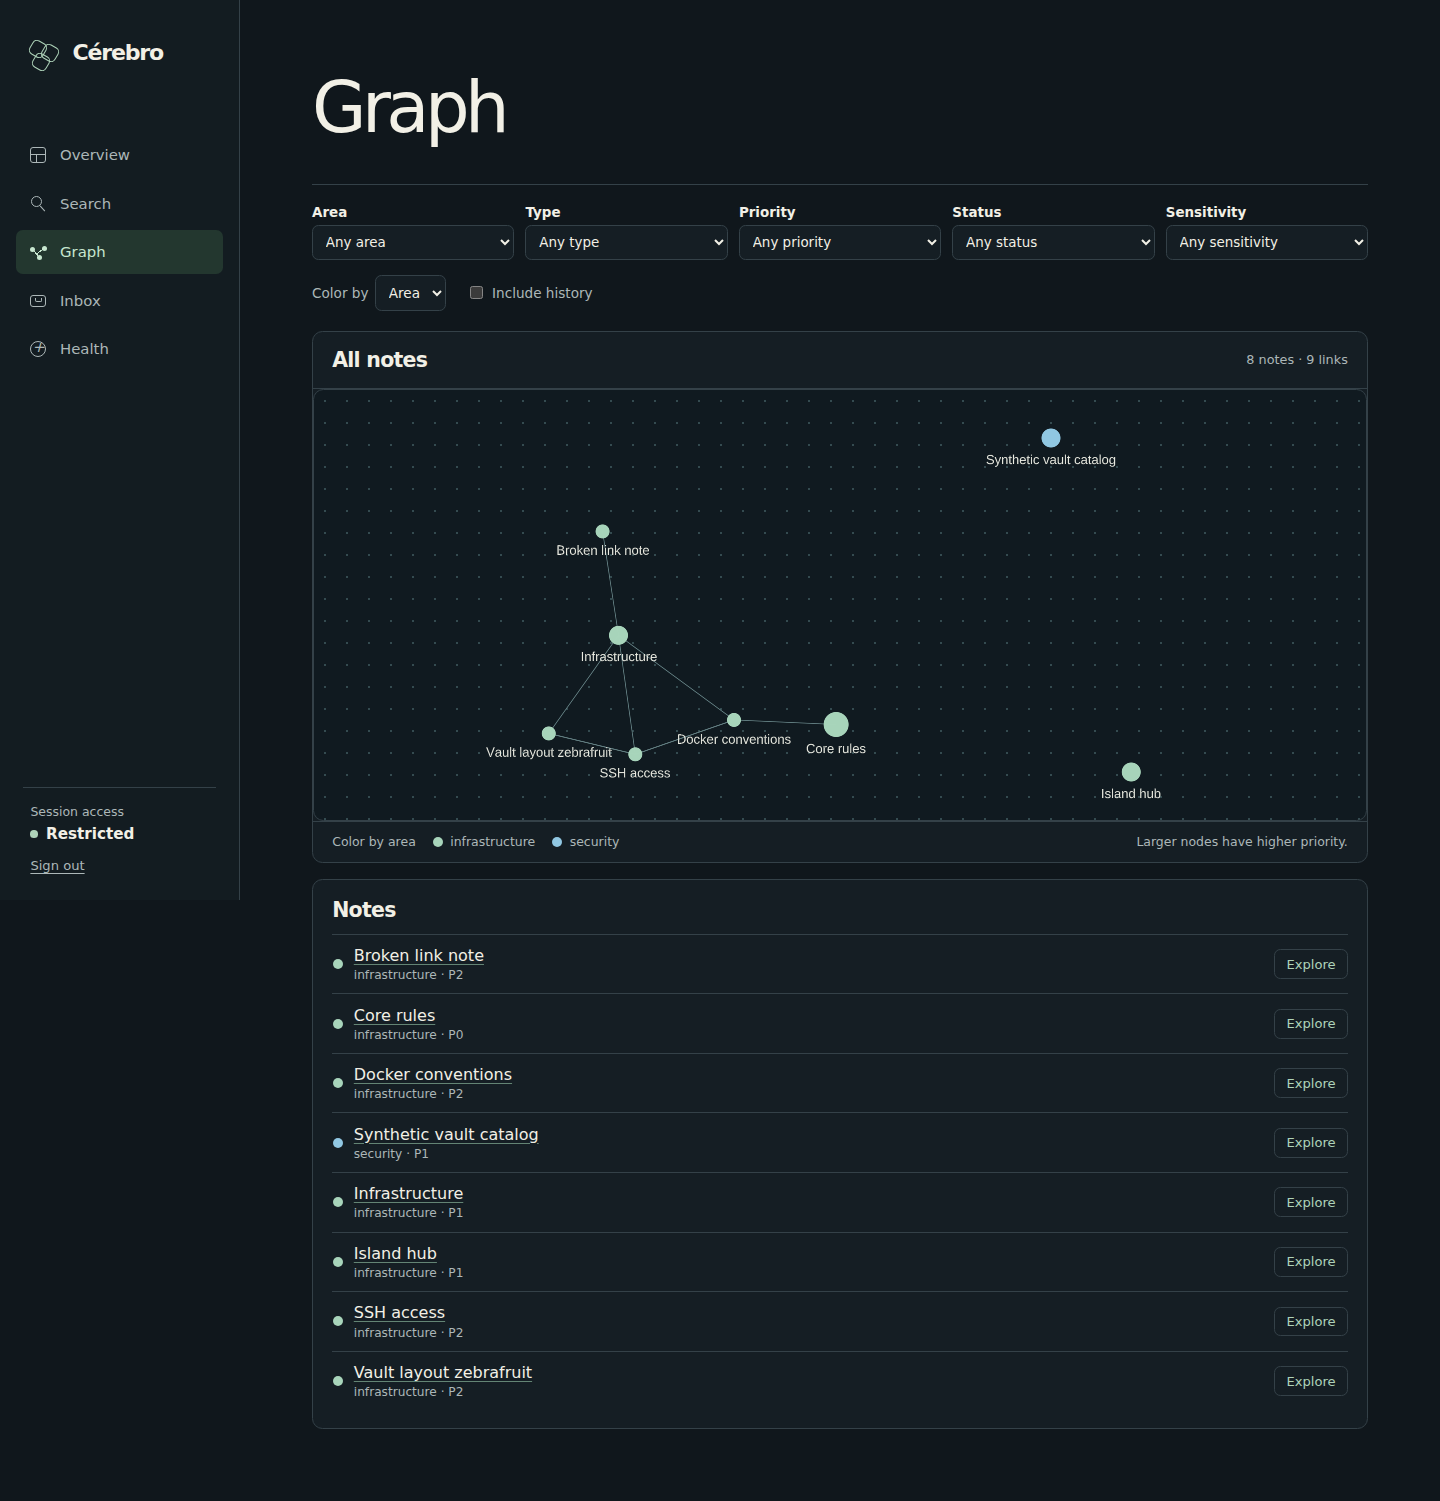
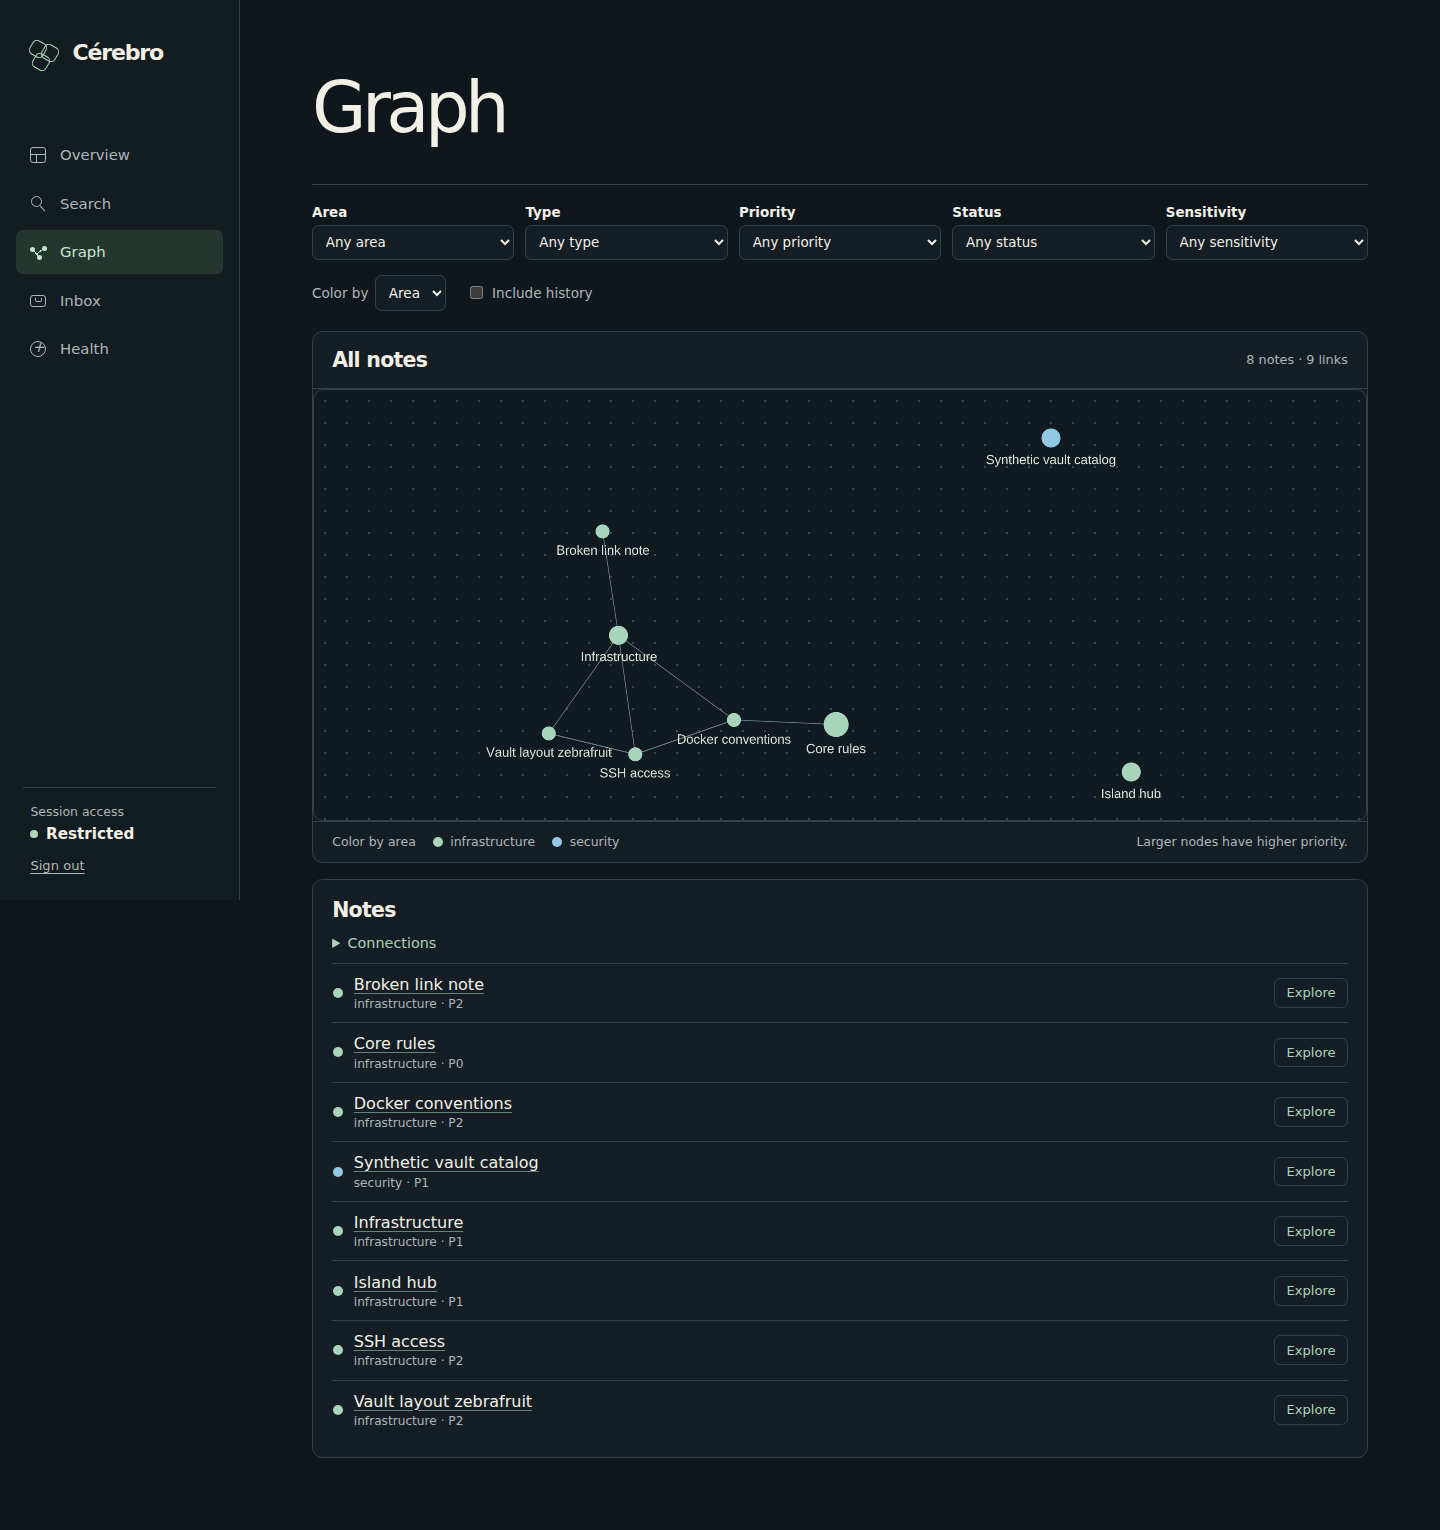
fix: expose graph relationships to keyboard and fallback readers

diff --git a/web/tests/components/graph.spec.ts b/web/tests/components/graph.spec.ts
@@ -1,12 +1,16 @@
-import { expect, test } from "@playwright/test";
+import { expect, test, type Page } from "@playwright/test";
 
 const guide = {id:"guide", title:"Field guide", area:"research", type:"guide", priority:"P1", status:"verified", sensitivity:"internal", summary:"Guide."};
 const hub = {...guide, id:"catalog", title:"Catalog", type:"hub", priority:"P0"};
 const archived = {...guide, id:"archive", title:"Archive", status:"archived", area:"archive", sensitivity:"restricted"};
 const edge = {source:"guide", target:"catalog", kind:"related", section:null};
 
-test("global filters, keyboard exploration, hops and return preserve graph context", async ({page}) => {
+async function session(page: Page) {
   await page.route("**/api/session", route => route.fulfill({json:{ceiling:"restricted",csrf_token:"fixture",absolute_remaining_seconds:28800}}));
+}
+
+test("global filters, keyboard exploration, hops and return preserve graph context", async ({page}) => {
+  await session(page);
   await page.route("**/api/graph**", route => {
     const params = new URL(route.request().url()).searchParams;
     const candidates = params.get("history") === "true" ? [guide, hub, archived] : [guide, hub];
@@ -25,6 +29,16 @@ test("global filters, keyboard exploration, hops and return preserve graph conte
   await expect(page.getByText(/2 notes · 1 links?/)).toBeVisible();
   await page.getByLabel("Include history").check();
   await expect(explore("Archive")).toBeVisible();
+  for (const [key, value, excluded] of [
+    ["Area", "research", "Archive"], ["Type", "guide", "Catalog"], ["Priority", "P1", "Catalog"],
+    ["Status", "verified", "Archive"], ["Sensitivity", "internal", "Archive"],
+  ]) {
+    await select(key).selectOption(value);
+    await expect(explore("Field guide")).toBeVisible();
+    await expect(explore(excluded)).toHaveCount(0);
+    await select(key).selectOption("");
+    await expect(explore(excluded)).toBeVisible();
+  }
   await select("Color by").selectOption("type");
   for (const [key,value] of Object.entries({Area:"research", Type:"guide", Priority:"P1", Status:"verified", Sensitivity:"internal"})) {
     await select(key).selectOption(value);
@@ -35,7 +49,9 @@ test("global filters, keyboard exploration, hops and return preserve graph conte
   await explore("Field guide").focus();
   const local = page.waitForResponse(response => new URL(response.url()).pathname === "/api/notes/guide/neighbors");
   await page.keyboard.press("Enter");
-  await local;
+  expect(Object.fromEntries(new URL((await local).url()).searchParams)).toEqual({
+    hops:"1", history:"true", area:"research", type:"guide", priority:"P1", status:"verified", sensitivity:"internal",
+  });
   await expect(page.getByRole("radio",{name:"1 hop",exact:true})).toBeChecked();
   for (const key of ["Area", "Type", "Priority", "Status", "Sensitivity"]) await select(key).selectOption("");
   await expect(explore("Catalog")).toBeVisible();
@@ -51,4 +67,49 @@ test("global filters, keyboard exploration, hops and return preserve graph conte
   }
   await expect(page.getByLabel("Include history")).toBeChecked();
   await expect(explore("Catalog")).toHaveCount(0);
+});
+
+test("the HTML neighborhood follows two-hop connections through matching nodes only", async ({page}) => {
+  await session(page);
+  await page.addInitScript(() => {
+    const get = HTMLCanvasElement.prototype.getContext;
+    Object.defineProperty(HTMLCanvasElement.prototype, "getContext", {
+      value(this: HTMLCanvasElement, kind: string, ...args: unknown[]) {
+        return kind.includes("webgl") ? null : Reflect.apply(get, this, [kind, ...args]);
+      },
+    });
+  });
+  const entry = {...guide, id:"entry", title:"Entry"};
+  const bridge = {...guide, id:"bridge", title:"Bridge", type:"hub"};
+  const destination = {...guide, id:"destination", title:"Destination"};
+  const first = {...edge, source:"entry", target:"bridge", kind:"related"};
+  const second = {...edge, source:"bridge", target:"destination", kind:"wikilink"};
+  const all = {nodes:[entry, bridge, destination], edges:[first, second]};
+  await page.route("**/api/graph**", route => route.fulfill({json:{...all, center:null}}));
+  await page.route("**/api/notes/entry/neighbors**", route => {
+    const params = new URL(route.request().url()).searchParams;
+    const data = params.get("type") === "guide" ? {nodes:[entry], edges:[]}
+      : params.get("hops") === "2" ? all : {nodes:[entry,bridge], edges:[first]};
+    return route.fulfill({json:{...data,center:"entry"}});
+  });
+  await page.goto("/graph");
+  const explore = (title: string) => page.getByRole("button", {name:"Explore " + title, exact:true});
+  await explore("Entry").click();
+  await page.getByRole("radio",{name:"2 hops",exact:true}).check();
+  await expect(explore("Destination")).toBeVisible();
+  await expect(page.locator('[data-renderer="fallback"]')).toBeVisible();
+  await page.getByText("Connections", {exact:true}).click();
+  const connections = page.getByRole("region",{name:"Graph connections"}).getByRole("listitem");
+  await expect(connections).toHaveCount(2);
+  await expect(connections.filter({hasText:"Entry → Bridge · related"})).toBeVisible();
+  await expect(connections.filter({hasText:"Bridge → Destination · wikilink"})).toBeVisible();
+  await expect(connections.filter({hasText:"Entry → Destination"})).toHaveCount(0);
+
+  const response = page.waitForResponse(res => new URL(res.url()).pathname === "/api/notes/entry/neighbors");
+  await page.getByRole("combobox",{name:"Type",exact:true}).selectOption("guide");
+  expect(Object.fromEntries(new URL((await response).url()).searchParams)).toEqual({history:"false",hops:"2",type:"guide"});
+  await expect(explore("Entry")).toBeVisible();
+  await expect(explore("Bridge")).toHaveCount(0);
+  await expect(explore("Destination")).toHaveCount(0);
+  await expect(connections).toHaveCount(0);
 });

diff --git a/web/src/GraphScreen.tsx b/web/src/GraphScreen.tsx
@@ -71,6 +71,7 @@ export default function GraphScreen({api}: {api: ApiClient}) {
   });
   const source = local ? nearby : catalog;
   const graph = useMemo(() => source.data && filterGraph(source.data, view.filters), [source.data, view.filters]);
+  const titles = useMemo(() => new Map(graph?.nodes.map(node => [node.id, node.title])), [graph]);
   const legend = useMemo(() => [...new Set(graph?.nodes.map(node => node[view.colorBy]))].sort(), [graph, view.colorBy]);
   const center = local && graph?.nodes.find(node => node.id === local.center);
   useEffect(() => { client.setQueryData(graphState, workspace); }, [client, workspace]);
@@ -126,6 +127,14 @@ export default function GraphScreen({api}: {api: ApiClient}) {
         </div>}
       </section>
       <section className="graph-list" aria-labelledby="graph-notes"><h2 id="graph-notes">Notes</h2>
+        {graph.edges.length > 0 && <details className="graph-connections">
+          <summary>Connections</summary>
+          <section aria-label="Graph connections">
+            <ul>{graph.edges.map((edge, index) => <li key={index}>
+              {titles.get(edge.source)} → {titles.get(edge.target)} · {edge.kind}{edge.section && ` · ${edge.section}`}
+            </li>)}</ul>
+          </section>
+        </details>}
         <ul>{graph.nodes.map(node => <li key={node.id}>
           <Dot value={node[view.colorBy]}/><div><a href={notePath(node.id, view.history)}>{node.title}</a>
             <span translate="no">{node.area} · {node.priority}</span></div>

diff --git a/web/src/graph.css b/web/src/graph.css
@@ -30,3 +30,6 @@
 .graph-list .graph-action { margin-left: auto; font-size: .82rem; }
 @media(max-width: 52rem) { .graph-filter-row { grid-template-columns: repeat(3,minmax(0,1fr)); } }
 @media(max-width: 35rem) { .graph-filter-row { grid-template-columns: repeat(2,minmax(0,1fr)); } .graph-size-key { margin-left: 0; } }
+.graph-connections { margin-top: .8rem; font-size: .9rem; }
+.graph-connections summary { width: fit-content; cursor: pointer; color: var(--accent); }
+.graph-connections li { display: block; color: var(--muted); overflow-wrap: anywhere; }

diff --git a/docs/plans/phase-5.md b/docs/plans/phase-5.md
@@ -385,7 +385,8 @@ graph restores its filters, history and color selection. Opening a note preserve
 The canvas uses Sigma and Graphology. A same-origin worker runs synchronous ForceAtlas2 on numeric
 node indices and edges. Labels and note summaries stay out of the worker. Colors are consistent for
 each area or type. The four priority sizes decrease from P0 to P3. The HTML list remains available
-to keyboard users and browsers without WebGL. Layout workers and renderers are disposed when their
+to keyboard users and browsers without WebGL. Its Connections disclosure lists the source, target,
+kind and optional section of each visible relationship. Layout workers and renderers are disposed when their
 graph unmounts. Graph settings and selection live in session memory.
 
 [Global graph](../screenshots/phase-5/09-graph.png) ·
